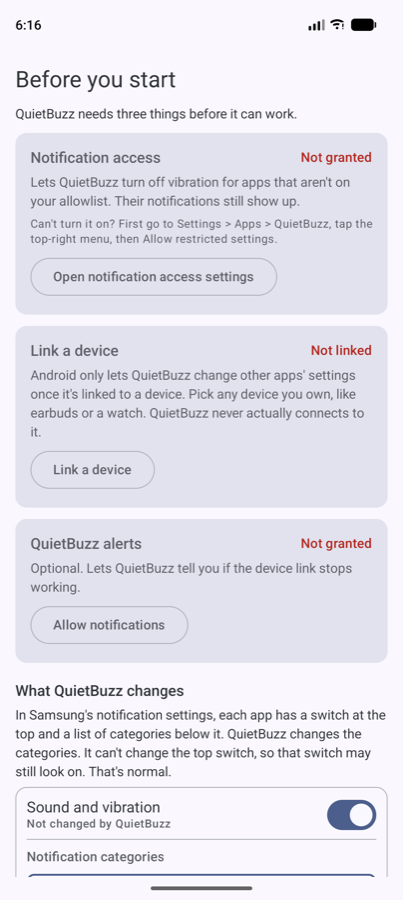
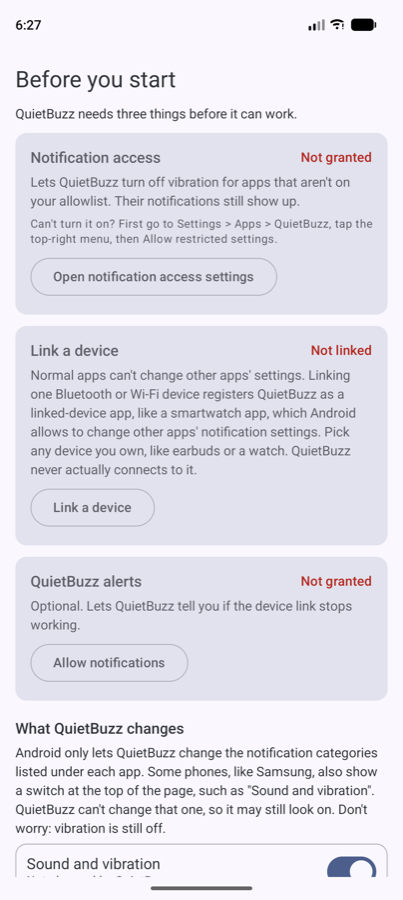
Confirm bulk actions, explain Restore vs Reset, phone-neutral wording, v1.2
- Run now, Restore all, and Reset all to defaults each ask for confirmation.
- One-line explanation under Restore all and Reset so the difference is clear.
- Link-a-device and category explanations in plain language, phone-neutral
  (Samsung's top switch mentioned as an example, not assumed).
- README and website: tested on Galaxy Z Fold 8, screenshots added to the
  website, all screenshots retaken from this build.

Claude-Session: https://claude.ai/code/session_017csQ8VrCF3shuswxjq3PMm

Changed region(s): [[0.0298, 0.56, 0.9826, 0.9956], [0.0596, 0.4044, 0.8933, 0.5289], [0.0596, 0.0, 0.1191, 0.0311]]

diff --git a/app/src/main/java/io/quietbuzz/app/ui/StatusScreen.kt b/app/src/main/java/io/quietbuzz/app/ui/StatusScreen.kt
@@ -8,6 +8,7 @@ import androidx.compose.foundation.layout.fillMaxWidth
 import androidx.compose.foundation.layout.padding
 import androidx.compose.foundation.rememberScrollState
 import androidx.compose.foundation.verticalScroll
+import androidx.annotation.StringRes
 import androidx.compose.material3.AlertDialog
 import androidx.compose.material3.Button
 import androidx.compose.material3.TextButton
@@ -62,7 +63,7 @@ fun StatusScreen(
         initial = PassSummary(null, 0, 0, 0),
     )
     val allowlist by allowlistRepository.allowlist.collectAsState(initial = emptySet())
-    var showResetDialog by remember { mutableStateOf(false) }
+    var pendingConfirm by remember { mutableStateOf<BulkAction?>(null) }
 
     Column(
         modifier = Modifier
@@ -129,67 +130,37 @@ fun StatusScreen(
 
         HorizontalDivider()
 
-        Button(onClick = {
-            scope.launch {
-                val includeSystemAppsNow = passStateRepository.includeSystemApps.first()
-                val ranNow = SilenceDispatch.runOrQueue(
-                    context,
-                    passStateRepository,
-                    PendingAction.SilenceAll,
-                ) { it.runSilenceAllNow(includeSystemAppsNow) }
-                val message = if (ranNow) {
-                    context.getString(R.string.status_pass_complete)
-                } else {
-                    context.getString(R.string.status_queued_run)
-                }
-                snackbarHostState.showSnackbar(message)
-            }
-        }) { Text(stringResource(R.string.status_run_now)) }
+        Button(onClick = { pendingConfirm = BulkAction.Run }) { Text(stringResource(R.string.status_run_now)) }
 
-        OutlinedButton(onClick = {
-            scope.launch {
-                val ranNow = SilenceDispatch.runOrQueue(
-                    context,
-                    passStateRepository,
-                    PendingAction.RestoreAll,
-                ) { it.restoreAllNow() }
-                val message = if (ranNow) {
-                    context.getString(R.string.status_restored_confirm)
-                } else {
-                    context.getString(R.string.status_queued_restore)
-                }
-                snackbarHostState.showSnackbar(message)
-            }
-        }) { Text(stringResource(R.string.status_restore_all)) }
+        OutlinedButton(onClick = { pendingConfirm = BulkAction.Restore }) { Text(stringResource(R.string.status_restore_all)) }
+        ButtonHint(stringResource(R.string.status_restore_all_hint))
 
-        OutlinedButton(onClick = { showResetDialog = true }) {
-            Text(stringResource(R.string.status_reset_all))
-        }
+        OutlinedButton(onClick = { pendingConfirm = BulkAction.Reset }) { Text(stringResource(R.string.status_reset_all)) }
+        ButtonHint(stringResource(R.string.status_reset_all_hint))
 
-        if (showResetDialog) {
+        pendingConfirm?.let { action ->
             AlertDialog(
-                onDismissRequest = { showResetDialog = false },
-                title = { Text(stringResource(R.string.status_reset_title)) },
-                text = { Text(stringResource(R.string.status_reset_body)) },
+                onDismissRequest = { pendingConfirm = null },
+                title = { Text(stringResource(action.title)) },
+                text = { Text(stringResource(action.body)) },
                 confirmButton = {
                     TextButton(onClick = {
-                        showResetDialog = false
+                        pendingConfirm = null
                         scope.launch {
                             val includeSystemAppsNow = passStateRepository.includeSystemApps.first()
-                            val ranNow = SilenceDispatch.runOrQueue(
-                                context,
-                                passStateRepository,
-                                PendingAction.ResetAll,
-                            ) { it.resetAllToDefaultsNow(includeSystemAppsNow) }
-                            snackbarHostState.showSnackbar(
-                                if (ranNow) context.getString(R.string.status_reset_done)
-                                else context.getString(R.string.status_queued_reset),
-                            )
+                            val ranNow = SilenceDispatch.runOrQueue(context, passStateRepository, action.pending) {
+                                when (action) {
+                                    BulkAction.Run -> it.runSilenceAllNow(includeSystemAppsNow)
+                                    BulkAction.Restore -> it.restoreAllNow()
+                                    BulkAction.Reset -> it.resetAllToDefaultsNow(includeSystemAppsNow)
+                                }
+                            }
+                            snackbarHostState.showSnackbar(context.getString(if (ranNow) action.done else action.queued))
                         }
-                    }) { Text(stringResource(R.string.status_reset_confirm)) }
+                    }) { Text(stringResource(action.confirm)) }
                 },
                 dismissButton = {
-                    TextButton(onClick = { showResetDialog = false }) { Text(stringResource(R.string.status_reset_cancel)) }
+                    TextButton(onClick = { pendingConfirm = null }) { Text(stringResource(R.string.status_reset_cancel)) }
                 },
             )
         }
@@ -213,6 +184,25 @@ fun StatusScreen(
             )
         }
     }
+}
+
+/** The three Status buttons that change every app at once, each confirmed before it runs. */
+private enum class BulkAction(
+    @StringRes val title: Int,
+    @StringRes val body: Int,
+    @StringRes val confirm: Int,
+    @StringRes val done: Int,
+    @StringRes val queued: Int,
+    val pending: PendingAction,
+) {
+    Run(R.string.status_run_title, R.string.status_run_body, R.string.status_run_confirm, R.string.status_pass_complete, R.string.status_queued_run, PendingAction.SilenceAll),
+    Restore(R.string.status_restore_title, R.string.status_restore_body, R.string.status_restore_confirm, R.string.status_restored_confirm, R.string.status_queued_restore, PendingAction.RestoreAll),
+    Reset(R.string.status_reset_title, R.string.status_reset_body, R.string.status_reset_confirm, R.string.status_reset_done, R.string.status_queued_reset, PendingAction.ResetAll),
+}
+
+@Composable
+private fun ButtonHint(text: String) {
+    Text(text, style = MaterialTheme.typography.bodySmall, color = MaterialTheme.colorScheme.onSurfaceVariant)
 }
 
 @Composable

diff --git a/docs/index.html b/docs/index.html
@@ -362,6 +362,26 @@
   @media (prefers-reduced-motion: reduce) {
     * { transition-duration: 0.001ms !important; }
   }
+  .screens {
+    display: grid;
+    grid-template-columns: repeat(auto-fit, minmax(180px, 1fr));
+    gap: 20px;
+    margin: 0;
+  }
+  .screens figure { margin: 0; }
+  .screens img, .callout-image {
+    display: block;
+    width: 100%;
+    height: auto;
+    border: 1px solid var(--border);
+    border-radius: var(--radius-lg);
+  }
+  .screens figcaption {
+    margin-top: 8px;
+    font-size: 0.9rem;
+    text-align: center;
+  }
+  .callout-image { max-width: 280px; margin-top: 16px; }
 </style>
 </head>
 <body>
@@ -384,7 +404,7 @@
   <dl class="meta-grid">
     <div>
       <dt><span lang="en">Platform</span><span lang="ko">플랫폼</span></dt>
-      <dd>Android 13+ / One UI</dd>
+      <dd><span lang="en">Android 13+, tested on Galaxy Z Fold 8</span><span lang="ko">Android 13 이상, 갤럭시 Z 폴드 8에서 테스트</span></dd>
     </div>
     <div>
       <dt><span lang="en">Stack</span><span lang="ko">스택</span></dt>
@@ -408,6 +428,27 @@
       QuietBuzz가 그 빈자리를 채웁니다. 폰을 진동 모드로 두면, 직접 고른 허용 목록의 앱만 진동합니다.
       나머지 앱의 알림은 알림창에 그대로 보이되 조용히 옵니다. 새로 설치한 앱도 자동으로 처리됩니다.
     </p>
+  </section>
+
+  <section>
+    <h2><span lang="en">Screens</span><span lang="ko">화면</span></h2>
+    <div class="screens">
+      <figure>
+        <img lang="en" src="images/onboarding-en.png" alt="Permission screen explaining each permission" loading="lazy">
+        <img lang="ko" src="images/onboarding-ko.png" alt="각 권한을 설명하는 첫 화면" loading="lazy">
+        <figcaption><span lang="en">First launch: what each permission is for</span><span lang="ko">첫 실행: 권한이 왜 필요한지 설명</span></figcaption>
+      </figure>
+      <figure>
+        <img lang="en" src="images/status-en.png" alt="Status tab with Run now, Restore all, and Reset buttons" loading="lazy">
+        <img lang="ko" src="images/status-ko.png" alt="지금 실행, 모두 복원, 초기화 버튼이 있는 상태 탭" loading="lazy">
+        <figcaption><span lang="en">Status: run, restore, or reset</span><span lang="ko">상태: 실행, 복원, 초기화</span></figcaption>
+      </figure>
+      <figure>
+        <img lang="en" src="images/allowlist-en.png" alt="Allowlist tab with chosen apps at the top" loading="lazy">
+        <img lang="ko" src="images/allowlist-ko.png" alt="고른 앱이 위에 표시되는 허용 목록 탭" loading="lazy">
+        <figcaption><span lang="en">Allowlist: apps that still vibrate</span><span lang="ko">허용 목록: 계속 진동할 앱</span></figcaption>
+      </figure>
+    </div>
   </section>
 
   <section class="mechanism">
@@ -603,15 +644,20 @@
   <aside class="callout">
     <span class="callout-label"><span lang="en">Worth knowing</span><span lang="ko">참고 사항</span></span>
     <span lang="en">
-      Samsung's app-level "Sound and vibration" switch has no API, so QuietBuzz can't change it and it won't
-      reflect what QuietBuzz did. Check the per-category page instead, or use the app's Settings button to flip
-      it yourself. This is a personal, sideloaded project: not on the Play Store, no root required.
+      Android only lets QuietBuzz change the notification categories listed under each app. So QuietBuzz turns off
+      vibration for every item under App notifications &rsaquo; Notification categories. Some phones, like Samsung,
+      also show a switch at the top of the page ("Sound and vibration"). QuietBuzz can't change that one, so it may
+      still look on. Don't worry: vibration is still off. Personal, sideloaded project: not on the Play Store, no root
+      required.
     </span>
     <span lang="ko">
-      삼성의 앱 단위 "소리 및 진동" 스위치는 API가 없어서 QuietBuzz가 바꿀 수 없고, QuietBuzz가 바꾼 내용을
-      반영하지도 않습니다. 카테고리별 화면을 확인하거나, 앱의 설정 버튼으로 직접 바꿔주세요. Play 스토어에
-      올라가 있지 않은 개인용 사이드로드 프로젝트이며, 루팅이 필요 없습니다.
+      Android는 앱마다 아래쪽의 알림 카테고리별 설정만 바꿀 수 있게 해줍니다. 그래서 QuietBuzz는 앱 알림 &rsaquo; 알림
+      카테고리의 세부 항목들에서 진동을 모두 끕니다. 삼성 같은 일부 폰은 페이지 맨 위에 "소리 및 진동" 스위치도 있는데,
+      QuietBuzz는 이건 바꿀 수 없어서 켜져 보일 수 있어요. 꺼지지 않은 거라고 혼동하지 마세요. 진동은 꺼져 있습니다.
+      Play 스토어에 올라가 있지 않은 개인용 사이드로드 프로젝트이며, 루팅이 필요 없습니다.
     </span>
+    <img class="callout-image" lang="en" src="images/explainer-en.png" alt="Diagram: the top switch is not changed, the categories below are" loading="lazy">
+    <img class="callout-image" lang="ko" src="images/explainer-ko.png" alt="그림: 맨 위 스위치는 그대로, 아래 카테고리만 바뀜" loading="lazy">
   </aside>
 
   <footer class="closing">

diff --git a/README.md b/README.md
@@ -6,6 +6,8 @@
 
 Keep your phone in vibrate mode, and only the apps you pick will buzz. Every other app's notifications still show up, just without vibration. No Do Not Disturb needed.
 
+Works on Android 13 and later. Tested on a Samsung Galaxy Z Fold 8.
+
 <p>
   <img src="docs/images/onboarding-en.png" width="240" alt="Permission screen">
   <img src="docs/images/status-en.png" width="240" alt="Status tab">
@@ -22,16 +24,16 @@ Keep your phone in vibrate mode, and only the apps you pick will buzz. Every oth
 ### Buttons
 
 - **Run now**: turns off vibration for every app not on your allowlist.
-- **Restore all**: undoes what QuietBuzz changed.
-- **Reset all to defaults**: turns sound and vibration back on for every app. Use it if apps are still muted after Restore all.
+- **Restore all**: puts each app back the way it was before QuietBuzz changed it, using what QuietBuzz saved at the time.
+- **Reset all to defaults**: ignores that saved record and turns sound and vibration back on for every app. Use it if apps are still muted after Restore all (records saved by early versions can be wrong).
 - **Allowlist**: checking an app turns its vibration back on right away. Unchecking turns it off.
 
 ### Good to know
 
 - Sound follows your phone's ringer mode. In vibrate mode no app makes sound. In sound mode every app does.
-- QuietBuzz changes the categories inside each app, not the **Sound and vibration** switch at the top of Samsung's settings. That switch may still look on. That's normal.
+- Android only lets QuietBuzz change the **notification categories** listed under each app. So QuietBuzz turns off vibration for every item under App notifications > Notification categories. Some phones, like Samsung, also show a switch at the top of the page (**Sound and vibration**). QuietBuzz can't change that one, so it may still look on. Don't worry: vibration is still off.
 - New apps are handled automatically when you install them.
-- QuietBuzz never actually connects to the device you link.
+- Why link a device? Normal apps can't change other apps' settings. Linking one Bluetooth or Wi-Fi device registers QuietBuzz as a linked-device app, like a smartwatch app, which Android allows to change other apps' notification settings. QuietBuzz never actually connects to the device.
 
 <img src="docs/images/explainer-en.png" width="240" alt="What QuietBuzz changes">
 
@@ -40,6 +42,8 @@ More detail: [Technical notes](docs/TECHNICAL.md)
 ## 한국어
 
 폰을 진동 모드로 두면, 직접 고른 앱만 진동합니다. 나머지 앱의 알림도 그대로 표시되고, 진동만 꺼집니다. 방해 금지 모드는 필요 없습니다.
+
+Android 13 이상에서 동작합니다. 삼성 갤럭시 Z 폴드 8에서 테스트했습니다.
 
 <p>
   <img src="docs/images/onboarding-ko.png" width="240" alt="권한 설명 화면">
@@ -57,16 +61,16 @@ More detail: [Technical notes](docs/TECHNICAL.md)
 ### 버튼
 
 - **지금 실행**: 허용 목록에 없는 모든 앱의 진동을 끕니다.
-- **모두 복원**: QuietBuzz가 바꾼 것을 되돌립니다.
-- **모두 기본값으로 초기화**: 모든 앱의 소리와 진동을 다시 켭니다. 모두 복원 후에도 앱이 무음이라면 이걸 쓰세요.
+- **모두 복원**: QuietBuzz가 바꿀 때 저장해 둔 기록으로, 각 앱을 바꾸기 전 상태로 되돌립니다.
+- **모두 기본값으로 초기화**: 저장된 기록을 쓰지 않고, 모든 앱의 소리와 진동을 다시 켭니다. 모두 복원 후에도 앱이 무음이면 이걸 쓰세요 (초기 버전이 저장한 기록은 틀릴 수 있습니다).
 - **허용 목록**: 앱을 체크하면 바로 진동이 돌아오고, 해제하면 바로 꺼집니다.
 
 ### 알아두면 좋은 점
 
 - 소리는 폰의 벨소리 모드를 따릅니다. 진동 모드에서는 어떤 앱도 소리를 내지 않고, 소리 모드에서는 모든 앱이 소리를 냅니다.
-- QuietBuzz는 앱 안의 카테고리를 바꿉니다. 삼성 설정 맨 위의 **소리 및 진동** 스위치는 바꾸지 않아서, 켜진 채로 보일 수 있어요. 정상입니다.
+- Android는 앱마다 아래쪽의 **알림 카테고리**별 설정만 바꿀 수 있게 해줍니다. 그래서 QuietBuzz는 앱 알림 > 알림 카테고리의 세부 항목들에서 진동을 모두 끕니다. 삼성 같은 일부 폰은 페이지 맨 위에 **소리 및 진동** 스위치도 있는데, QuietBuzz는 이건 바꿀 수 없어서 켜져 보일 수 있어요. 꺼지지 않은 거라고 혼동하지 마세요. 진동은 꺼져 있습니다.
 - 새로 설치한 앱은 자동으로 처리됩니다.
-- 연결한 기기에 실제로 접속하지는 않습니다.
+- 왜 기기를 연결하나요? 일반 앱은 다른 앱의 설정을 바꿀 수 없습니다. 블루투스나 Wi-Fi 기기 하나와 연결하면 QuietBuzz가 워치 앱처럼 '기기와 연결된 앱'으로 등록되어, 다른 앱의 알림 설정을 바꿀 수 있게 됩니다. 연결한 기기에 실제로 접속하지는 않습니다.
 
 <img src="docs/images/explainer-ko.png" width="240" alt="QuietBuzz가 바꾸는 것">
 
